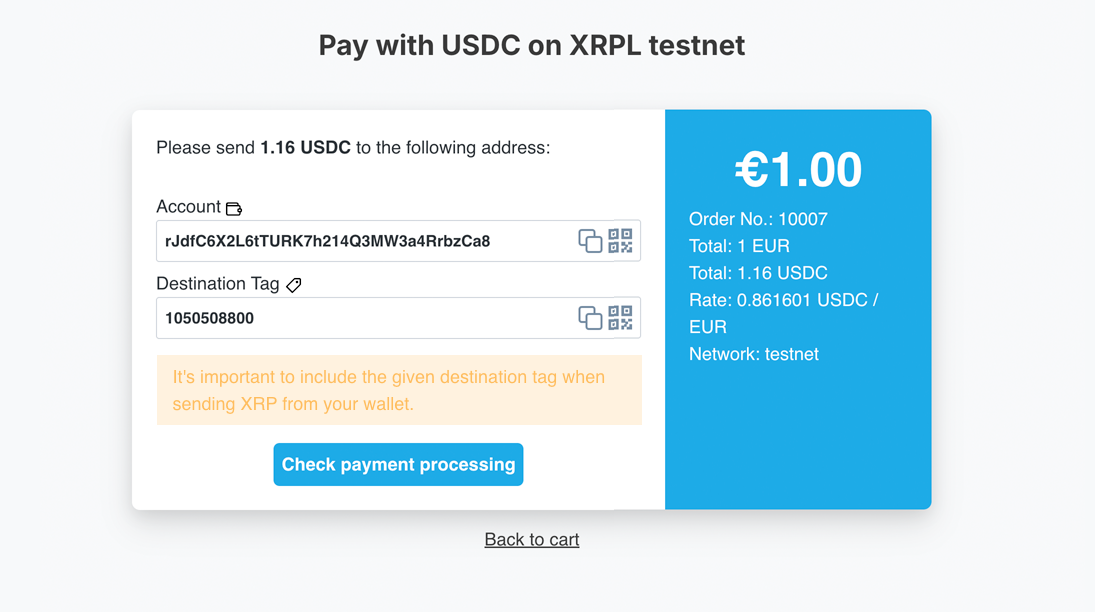
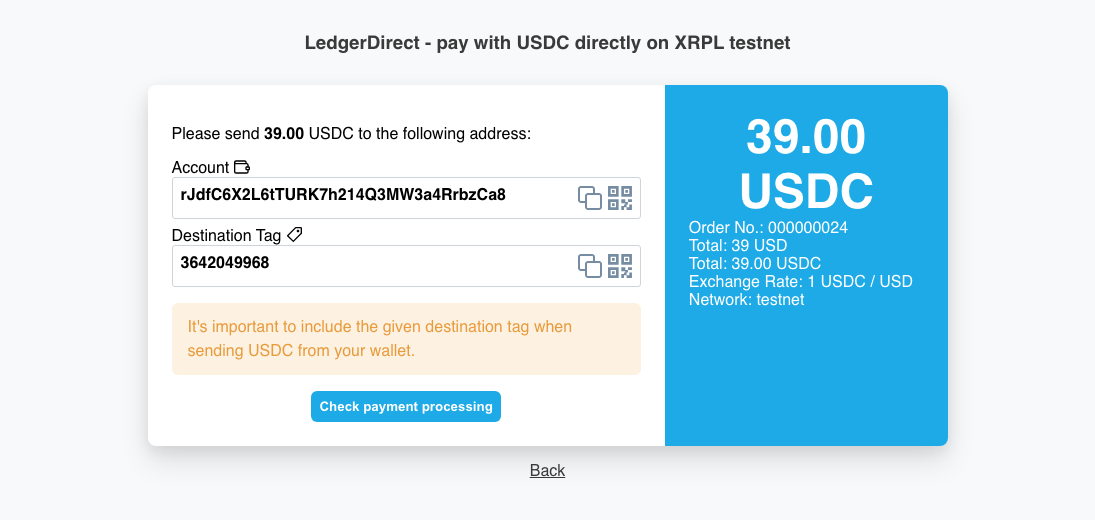
Style(payment-page): style the destination tag hint box, refresh screenshot
Claude-Session: https://claude.ai/code/session_01BAF3vz2Ui2Xs2dCUnThXfd

Changed region(s): [[0.1242, 0.1538, 0.8694, 0.9231], [0.1242, 0.2154, 0.4968, 0.2769], [0.2795, 0.0308, 0.7452, 0.1231]]

diff --git a/view/frontend/web/css/base.css b/view/frontend/web/css/base.css
@@ -113,6 +113,15 @@ body.ledger-direct {
     margin-bottom: 1rem;
 }
 
+/* The hint box markup uses Bootstrap's alert classes, which Magento's frontend does not style. */
+.ld-warning .alert-warning {
+    padding: 0.75rem 1rem;
+    color: #e89b3c;
+    background-color: #fdf2e2;
+    border-radius: 0.375rem;
+    line-height: 1.5;
+}
+
 .ld-sync {
     text-align: center;
 }
